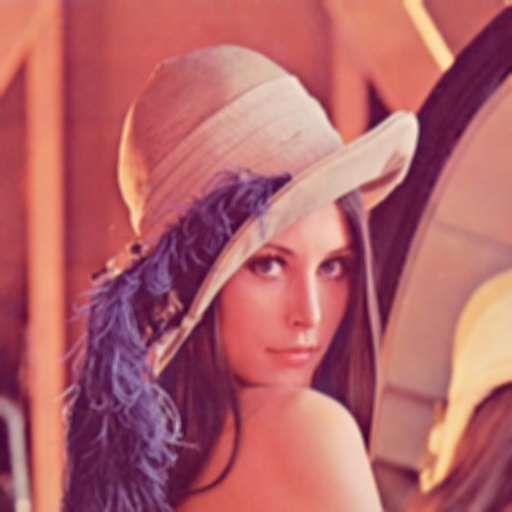
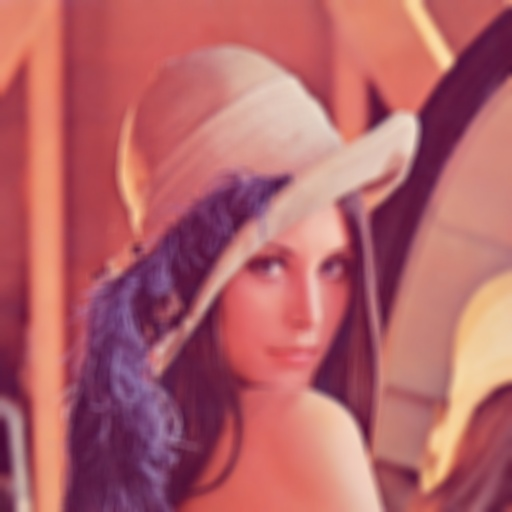
白い部分の画素が縮小する処理を追加

diff --git a/smoothing.py b/smoothing.py
@@ -9,6 +9,7 @@ def RotateToAngle(rows,cols,angle):
     return dst
 
 # a×bの画素すべて１？をつくりnumで割って平均をとる関数
+# いうなればぼかし処理
 def MakeFilterImage(a,b,num):
     kernel = np.ones((a,b),np.float32)/num
     dst_k = cv2.filter2D(img,-1,kernel)
@@ -28,7 +29,7 @@ try:
     rotate_x = RotateToAngle(rows,cols,60)
     cv2.imwrite('./tmp8/function.jpg',rotate_x)
 
-    average_img=MakeFilterImage(5,5,25)
+    average_img=MakeFilterImage(10,10,100)
     cv2.imwrite('./tmp9/func_avg.jpg',average_img)
 
 
